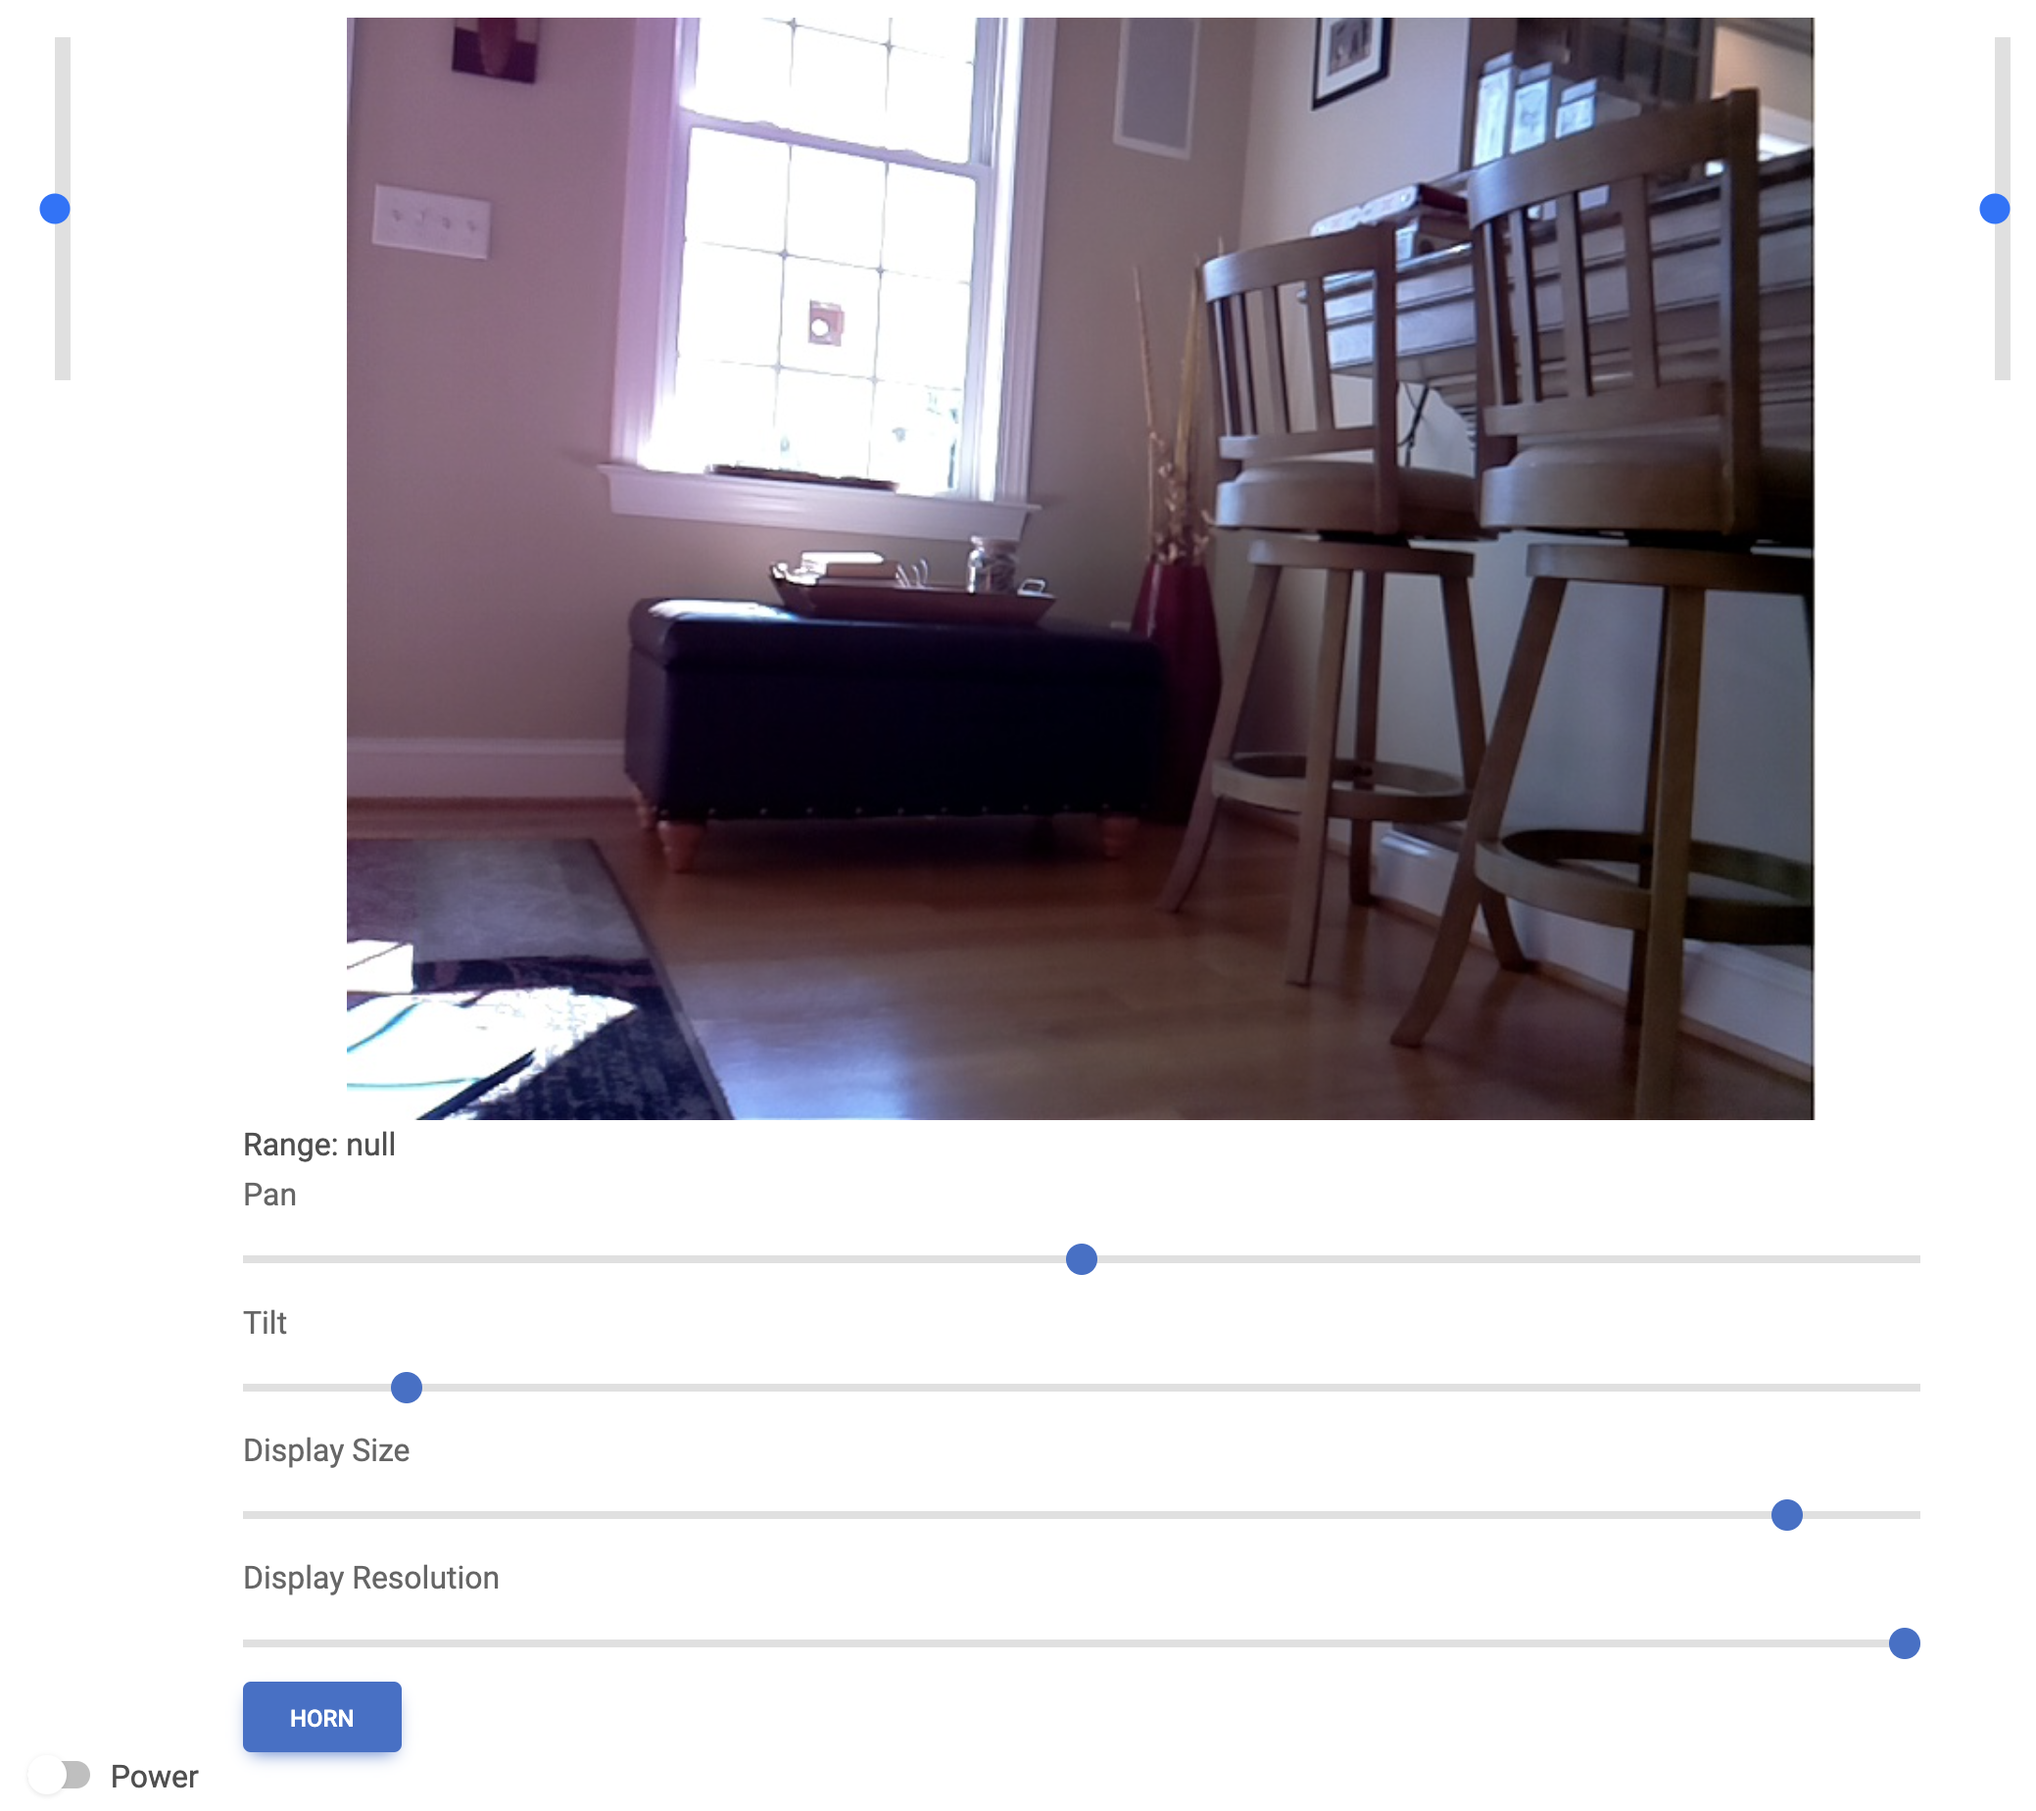
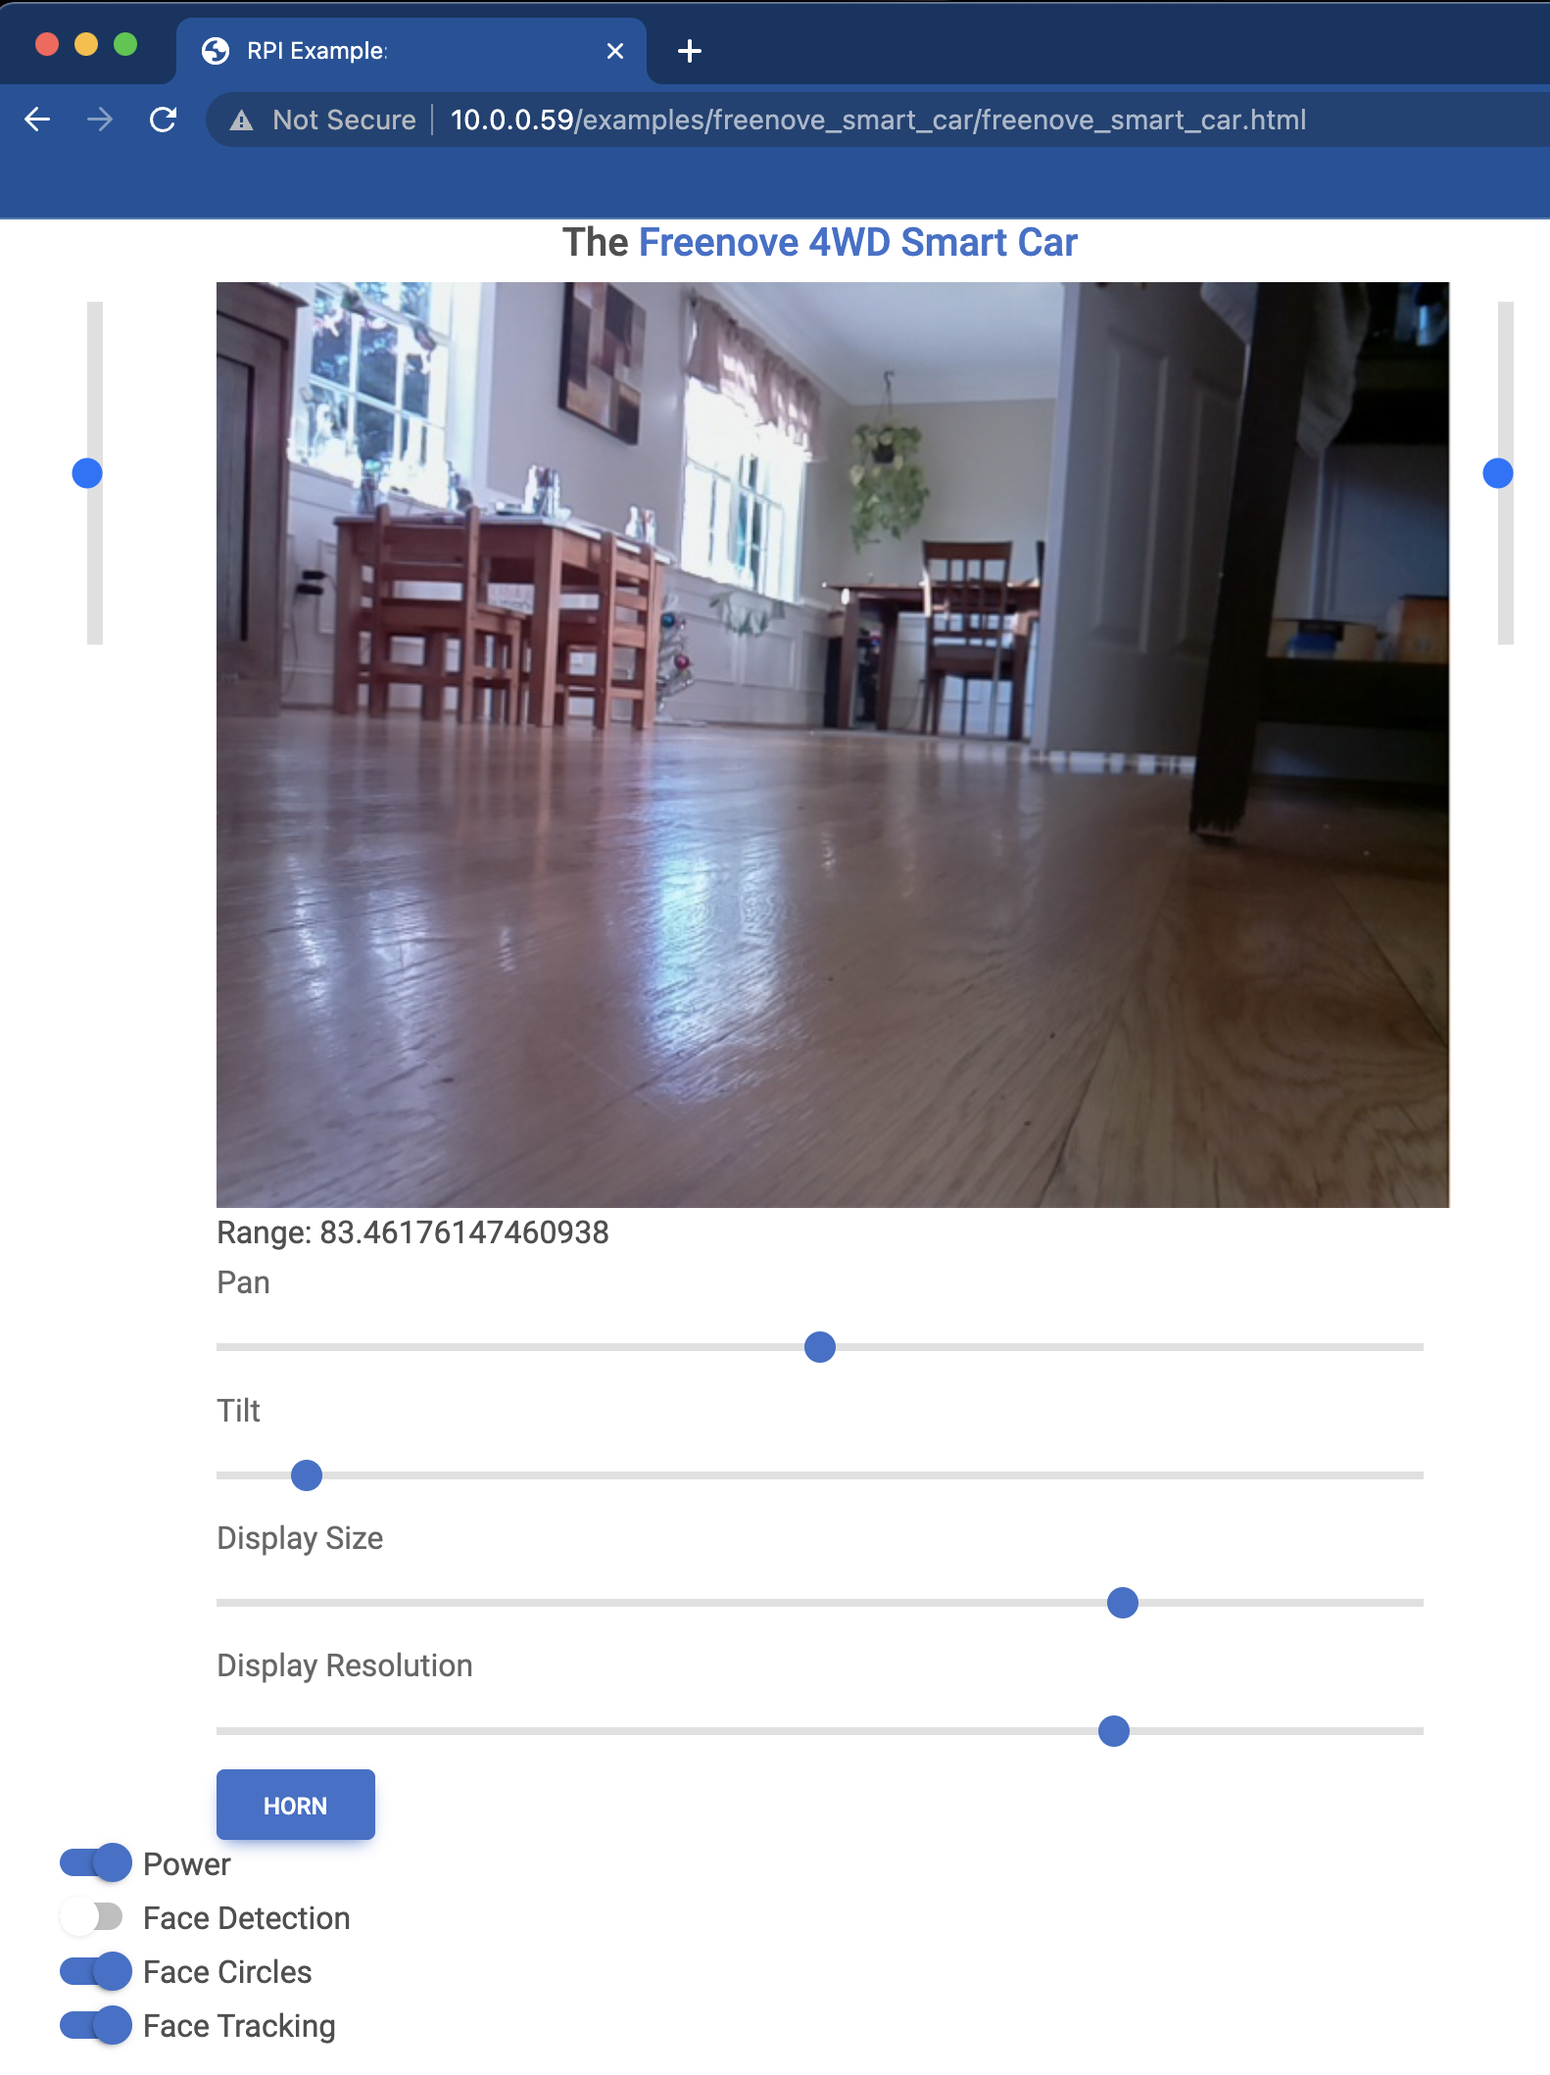
Docs

diff --git a/src/rpi/rest/examples/freenove_smart_car/freenove_smart_car.html b/src/rpi/rest/examples/freenove_smart_car/freenove_smart_car.html
@@ -4,7 +4,7 @@
     <meta charset="UTF-8" />
     <meta name="viewport" content="width=device-width, initial-scale=1.0, maximum-scale=1.0, user-scalable=no" />
     <meta http-equiv="x-ua-compatible" content="ie=edge" />
-    <title>RPI Example:  LED</title>
+    <title>RPI Example:  Freenove Smart Car</title>
     <link rel="stylesheet" href="https://cdnjs.cloudflare.com/ajax/libs/font-awesome/6.0.0/css/all.min.css"/>
     <link rel="stylesheet" href="https://fonts.googleapis.com/css2?family=Roboto:wght@300;400;500;700;900&display=swap"/>
     <link rel="stylesheet" href="../../mdbootstrap/css/mdb.min.css" />

diff --git a/README.md b/README.md
@@ -1,10 +1,21 @@
 # RPI
-This package provides two related capabilities. [First](rpi/python-gpio.md), it provides a high-level, event-driven 
-Python interface for GPIO circuits running on the Raspberry Pi. Sensors, motors, LEDs, switches, and many other 
-components are covered. [Second](rpi/remote-gpio.md), this package enables remote control of GPIO circuits via REST APIs 
-invoked from HTML/JavaScript front-ends. Want to control your circuit remotely from your phone? Look no further. This 
-package auto-generates HTML/JavaScript for GPIO circuits based on 
+
+## Python Interface for GPIO Circuits
+This package provides two related capabilities. [First](https://matthewgerber.github.io/rpi/rpi/python-gpio.html), it 
+provides a high-level, event-driven Python interface for GPIO circuits running on the Raspberry Pi. Sensors, motors, 
+LEDs, switches, and many other components are covered. An example is shown below (click to watch; Python code 
+[here](https://github.com/MatthewGerber/rpi/blob/main/src/rpi/gpio/examples/buzzing_led_bar_with_button.py)):
+
+[![Buzzing LED bar with push button](https://img.youtube.com/vi/e6PrM2QVSA4/0.jpg)](https://www.youtube.com/watch?v=e6PrM2QVSA4)
+
+## Remote Control of GPIO Circuits via REST/HTML/JavaScript
+[Second](https://matthewgerber.github.io/rpi/rpi/remote-gpio.html), this package enables remote control of GPIO circuits 
+via REST APIs invoked from HTML/JavaScript front-ends. Want to control your circuit remotely from your phone? Look no 
+further. This package auto-generates HTML/JavaScript for GPIO circuits based on 
 [Material Design for Bootstrap](https://mdbootstrap.com). These HTML/JavaScript elements can be embedded in full web 
-pages for remote control of the ciruit.
+pages for remote control of the ciruit. The remote control screen for the 
+[Freenove Smart Car](https://matthewgerber.github.io/rpi/rpi/smart-car.html) is shown below:
+
+![freenove-smart-car](docs/rpi/smart-car.png)
 
 Please see the [project website](https://matthewgerber.github.io/rpi/) for more information.
